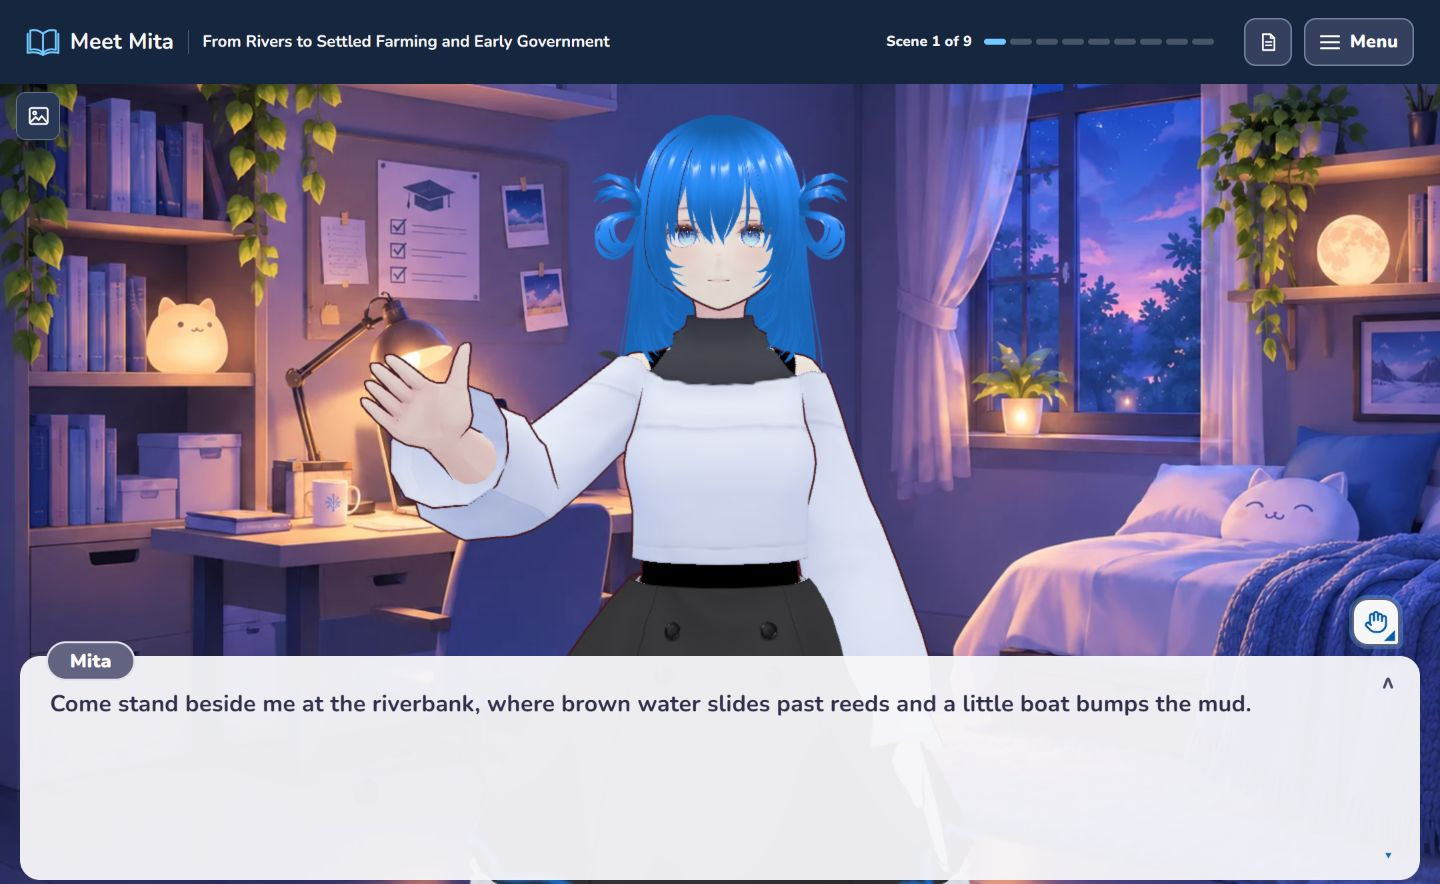
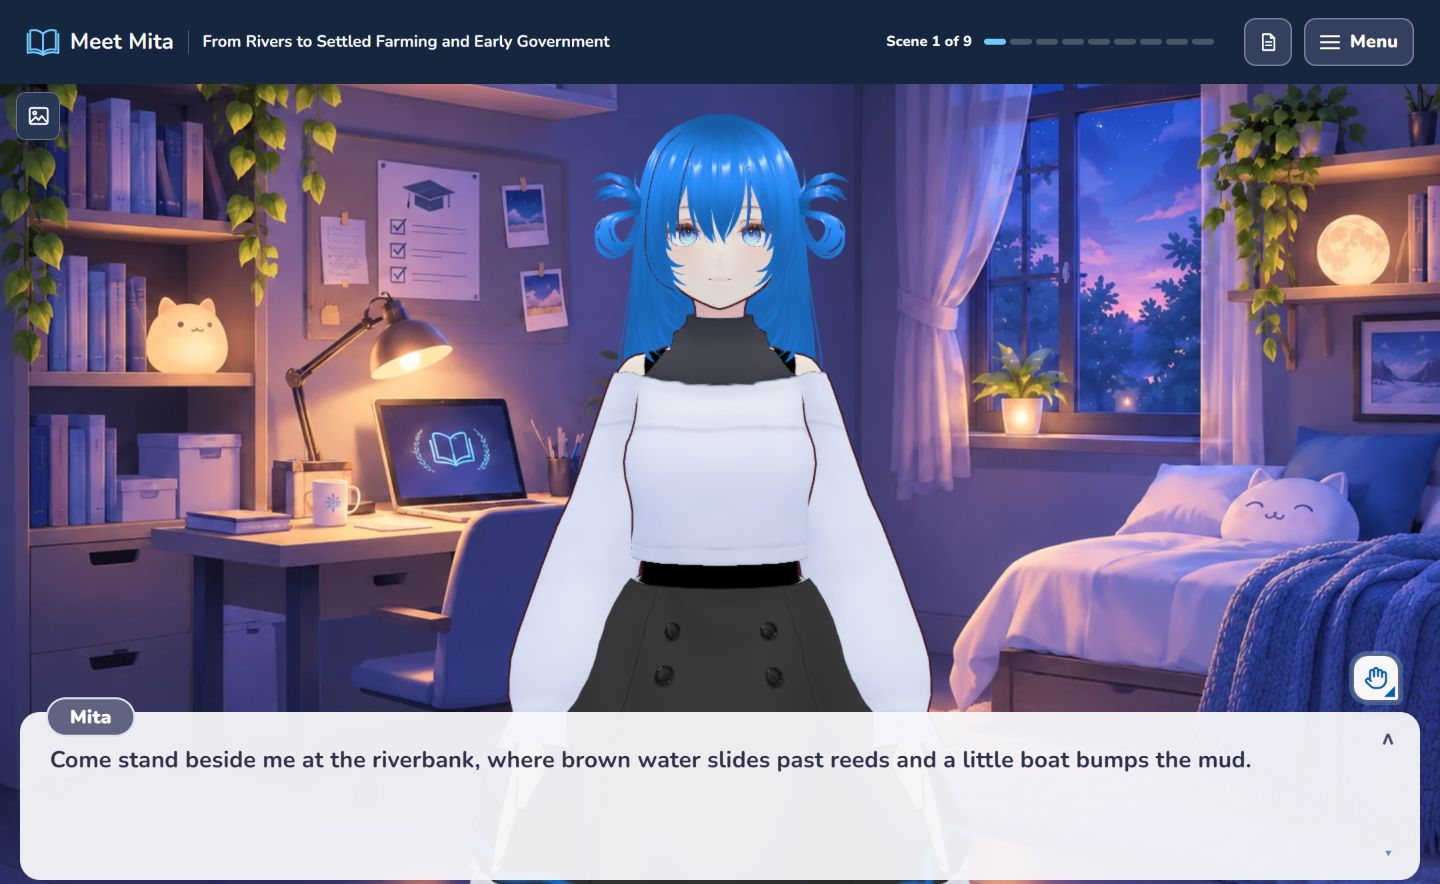
fix: reduce desktop dialogue height

Changed region(s): [[0.0, 0.3971, 1.0, 0.8857], [0.4375, 0.1833, 0.5312, 0.3054], [0.4688, 0.3054, 0.5, 0.3665]]

diff --git a/src/player/player.css b/src/player/player.css
@@ -229,6 +229,8 @@ body:has(.player) { margin: 0; background: #23233a; color: #30304c; color-scheme
 @media (min-width: 1000px) { .mode-checkpoint { height: max(620px, 100dvh); } }
 @media (max-height: 500px) { .mode-checkpoint { min-height: 480px; } .mode-checkpoint .vn-menu-rail { min-height: 64px; padding-block: 8px; } }
 
+@media (min-width: 800px) { .vn-dialogue { block-size: clamp(108px, 21dvh, 168px); } }
+
 @media (min-width: 1000px) {
   .vn-frame { grid-template-columns: minmax(0, 1fr); grid-template-rows: auto minmax(180px, 1fr) auto; padding-bottom: 20px; }
   .vn-frame > .player-header { grid-area: 1 / 1; min-height: 84px; padding-right: 226px; }

diff --git a/src/home/home.css b/src/home/home.css
@@ -165,6 +165,7 @@ body:has(.home) { margin: 0; overflow: hidden; background: #23233a; color-scheme
   .rail button { min-width: 148px; }
   .dlg { flex: 1; }
 }
+@media (min-width: 800px) { .dlg { min-height: clamp(105px, 18dvh, 158px); } }
 @media (max-width: 719px) {
   .foot { display: flex; }
   .rail { flex: 1; gap: 5px; }
